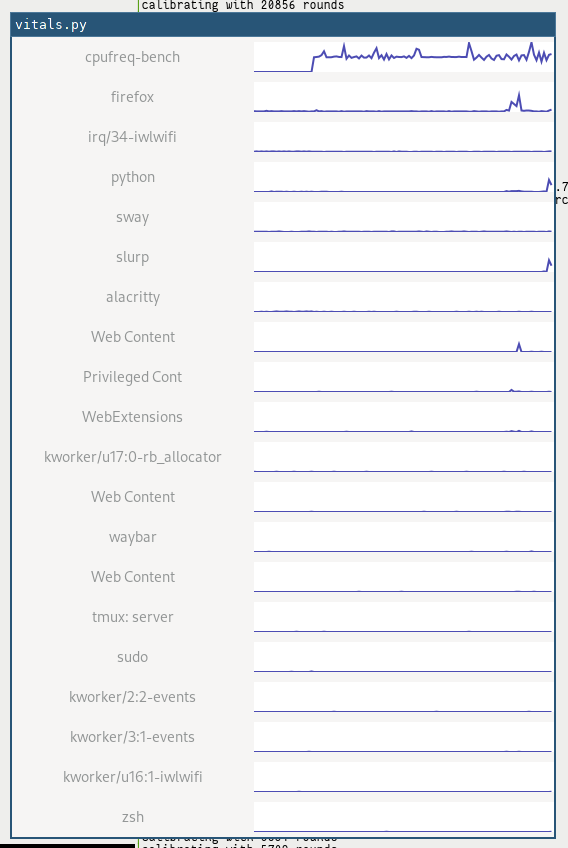
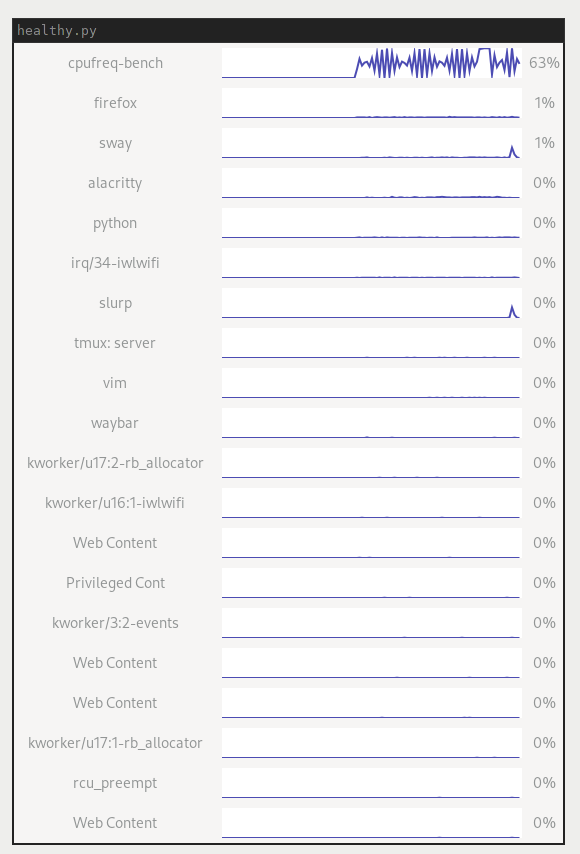
Add cpu usage percentage

diff --git a/healthy.py b/healthy.py
@@ -25,11 +25,17 @@ class CPUGraph(Gtk.Box):
         self.drawing_area.set_size_request(width=300, height=30)
         self.drawing_area.connect("draw", self.on_draw)
 
+        self.usage_label = Gtk.Label()
+        # 4 characters, max is "100%"
+        self.usage_label.set_width_chars(4)
+
         self.pack_start(self.label, True, True, 5)
-        self.pack_end(self.drawing_area, False, True, 0)
+        self.pack_end(self.usage_label, False, True, 0)
+        self.pack_end(self.drawing_area, False, True, 5)
 
     def on_draw(self, widget, cairo_context):
         self.label.set_text(self.name)
+        self.usage_label.set_text(f"{int(self.cpu_usage[-1])}%")
 
         width, height = self.drawing_area.get_size_request()
 
